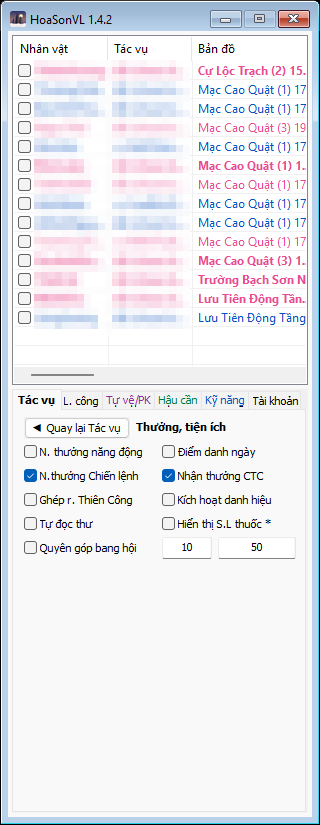
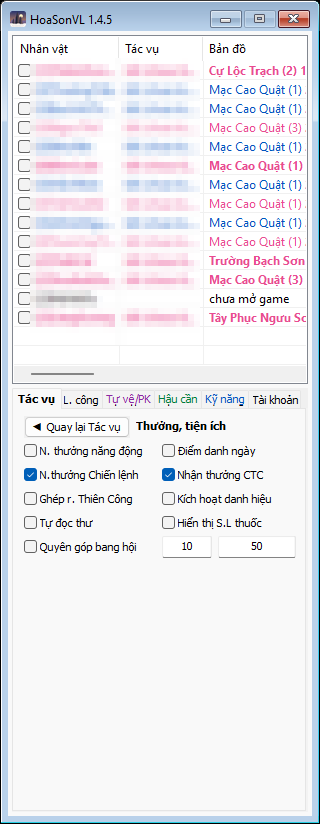
Hướng dẫn bản 1.4.5: Liên đấu đơn / song đấu + chiến đội (hộp + ảnh), Hiệp Phong (thử nghiệm, hộp + ảnh), Hiển thị S.L thuốc, Nhận thưởng CTC không có thưởng = thôi hôm nay, CTRL + Click chuyển đồ, kiểm tra cập nhật lúc mở, game cập nhật, Rèn thiếu chỗ, Tân thủ sửa trên bãi, cột [nhóm]Tên

diff --git a/docs/index.html b/docs/index.html
@@ -98,13 +98,15 @@ svg .ar-w{stroke:var(--warn);fill:none;stroke-width:1.4;stroke-dasharray:5 4}
 <div class="wrap">
 <nav>
   <h1>Hướng dẫn HoaSonVL</h1>
-  <div class="v">Bản 1.4.2 · Võ Lâm Truyền Kỳ 2.0</div>
+  <div class="v">Bản 1.4.5 · Võ Lâm Truyền Kỳ 2.0</div>
   <a href="#batdau">Bắt đầu</a>
   <a class="sub" href="#taimoi">· Tải mới và cập nhật</a>
   <a href="#danhsach">Bảng nhân vật</a>
   <div class="grp">Sáu tab</div>
   <a href="#tacvu">Tác vụ</a>
   <a class="sub" href="#hop">· Hộp riêng của từng tác vụ</a>
+  <a class="sub" href="#liendau">· Liên đấu (song đấu)</a>
+  <a class="sub" href="#hiepphong">· Hiệp Phong (thử nghiệm)</a>
   <a class="sub" href="#truongca">· Trường Ca (chiến đội)</a>
   <a class="sub" href="#todoi">· Tổ đội, theo sau</a>
   <a class="sub" href="#thuong">· Thưởng, tiện ích</a>
@@ -139,13 +141,14 @@ svg .ar-w{stroke:var(--warn);fill:none;stroke-width:1.4;stroke-dasharray:5 4}
 <li>Nếu phần mềm diệt virus giữ lại <span class="path">vlhook.dll</span> thì thêm cả thư mục HoaSonVL vào danh sách loại trừ rồi giải nén lại.</li>
 </ul>
 <h4>Cập nhật bản mới</h4>
-<p>Bot tự kiểm tra bản mới sau khi mở khoảng nửa phút, rồi vài giờ một lần. Có bản mới thì hiện hộp "HoaSonVL - cập nhật" ghi số bản và những gì thay đổi, hỏi "Cập nhật ngay?".</p>
+<p>Bot tự kiểm tra bản mới ngay khi mở, rồi vài giờ một lần. Lúc mở, cột Tác vụ ghi "chờ kiểm tra bản cập nhật HoaSonVL" và các nhân vật chờ tới khi kiểm xong (không có bản mới thì đi ngay). Có bản mới thì hiện hộp "HoaSonVL - cập nhật" ghi số bản và những gì thay đổi, hỏi "Cập nhật ngay?".</p>
 <ul>
 <li>Chọn <b>Yes</b>: bot tải về, tự đóng và mở lại. Các nhân vật đang chạy đứng yên vài giây rồi làm tiếp; game không bị đóng. Thiết lập, lộ trình, danh sách giữ nguyên.</li>
 <li>Chọn <b>No</b>: lần mở sau bot hỏi lại.</li>
 <li>Tệp cũ được giữ lại cạnh chương trình với đuôi <span class="path">.old-…</span> và tự dọn sau.</li>
 </ul>
 <p><b>Cập nhật tay</b> (khi bot không hỏi, hay máy không ra được GitHub): tải <span class="path">HoaSonPK.zip</span> mới nhất ở trang phát hành, tắt HoaSonVL, chép đè ba tệp <span class="path">HoaSonVL.exe</span>, <span class="path">vlhook.dll</span>, <span class="path">data\data.pak</span>. Không chép đè hay xoá <span class="path">config\</span> và <span class="path">userdata\</span>, thiết lập nằm ở đó. Số bản đang dùng hiện trên thanh tiêu đề cửa sổ.</p>
+<p><b>Game cập nhật</b>: bot tự dò lại bản game mới và chạy tiếp. Cột Tác vụ ghi "phiên bản game khác bản HoaSonVL biết, không điều khiển" thì xem chữ phía sau: "dò địa chỉ không được… (cần cập nhật HoaSonVL)" là chờ bản HoaSonVL mới; "đang chạy một bản game khác cùng lúc" là còn game bản cũ mở cùng game bản mới (bot chỉ lái một bản mỗi lần): thoát các game bản cũ, mở lại cho game cập nhật.</p>
 
 <h3>Thư mục chương trình</h3>
 <div class="tbl"><table>
@@ -185,8 +188,9 @@ svg .ar-w{stroke:var(--warn);fill:none;stroke-width:1.4;stroke-dasharray:5 4}
 <b>Kéo thả dòng</b><span>Đổi thứ tự nhân vật trong bảng.</span>
 <b>Bấm đúp vào dòng</b><span>Ẩn hoặc hiện lại cửa sổ game của nhân vật đó. Tiện khi chạy nhiều game mà màn hình chật.</span>
 <b>Chuột phải vào tiêu đề cột</b><span>Mở hộp "Tùy chọn hiển thị" để chọn cột nào hiện (ảnh bên dưới). Kéo tiêu đề cột để đổi chỗ, kéo mép để đổi rộng.</span>
-<b>Chuột phải vào dòng</b><span>Menu của các dòng đang chọn: <b>Thêm...</b> nhân vật chưa mở game (tên + môn phái), <b>Xóa</b> nhân vật chưa mở game (cả thiết lập, hỏi trước); lập chiến đội Trường Ca, làm đội trưởng, giải tán (mục <a href="#truongca">Trường Ca</a>); Lưu / Đọc toàn bộ cấu hình (như Xuất / Nhập thiết lập ở tab Tài khoản); xuất bảng ra tệp CSV (cả bảng hoặc các dòng đã chọn); Tùy chọn hiển thị; Reset thống kê (EXP, Thu nhập, Phù/Chết) cho các dòng đã chọn; Gán proxy / Hủy gán proxy; Đăng nhập (đã chọn, từng nhân vật, tất cả: lần lượt từng người) / Hủy đăng nhập; Thoát game đã chọn (hỏi trước); Nhật ký (mở vlbot.log). Mục chữ xám là chưa dùng được với các dòng đang chọn, hoặc chưa có trong bản này.</span>
+<b>Chuột phải vào dòng</b><span>Menu của các dòng đang chọn: <b>Thêm...</b> nhân vật chưa mở game (tên + môn phái), <b>Xóa</b> nhân vật chưa mở game (cả thiết lập, hỏi trước); lập chiến đội Trường Ca, làm đội trưởng, giải tán (mục <a href="#truongca">Trường Ca</a>); lập đội Hiệp Phong (chọn đúng 3 dòng), làm đội trưởng, giải tán (mục <a href="#hiepphong">Hiệp Phong</a>); Lưu / Đọc toàn bộ cấu hình (như Xuất / Nhập thiết lập ở tab Tài khoản); xuất bảng ra tệp CSV (cả bảng hoặc các dòng đã chọn); Tùy chọn hiển thị; Reset thống kê (EXP, Thu nhập, Phù/Chết) cho các dòng đã chọn; Gán proxy / Hủy gán proxy; Đăng nhập (đã chọn, từng nhân vật, tất cả: lần lượt từng người) / Hủy đăng nhập; Thoát game đã chọn (hỏi trước); Nhật ký (mở vlbot.log). Mục chữ xám là chưa dùng được với các dòng đang chọn, hoặc chưa có trong bản này.</span>
 <b>Bấm đúp thanh tiêu đề</b><span>Chuyển sang giao diện rộng: bảng chiếm bên trái với đủ cột, bên phải là bản đồ nhỏ của nhân vật đang chọn (chấm xanh là mình, chấm khác là người / quái quanh) và các tab. Bấm đúp lần nữa để về cửa sổ hẹp.</span>
+<b>Cột Nhân vật</b><span>"[1]Tên": số trong ngoặc là ô "Thuộc nhóm" ở tab Tài khoản.</span>
 <b>Cột Tác vụ</b><span>Việc bot đang làm, tóm tắt một dòng, ví dụ "luyện công", "mua thuốc", "theo sau X", "tắt (chưa tick)".</span>
 </div>
 <figure class="inline"><img src="img/cs-cot.png" alt="Hộp Tùy chọn hiển thị: tick các cột muốn hiện" width="346" height="363"><figcaption>Tùy chọn hiển thị. Lần đầu dùng chỉ hiện Nhân vật, Bản đồ, Cấp/EXP, EXP/giờ, Tác vụ; các cột khác bật thêm ở đây.</figcaption></figure>
@@ -239,7 +243,9 @@ svg .ar-w{stroke:var(--warn);fill:none;stroke-width:1.4;stroke-dasharray:5 4}
 <tr><td>NV Môn phái, NV Hằng ngày, NV Mặc Thạch</td><td>Nhận, làm và trả nhiệm vụ. Hằng ngày và Mặc Thạch có hộp riêng để chọn bản đồ nhận và nơi lấy trang bị cần nộp; riêng Mặc Thạch còn mua (NPC, sạp người chơi) hoặc rèn món đó.</td></tr>
 <tr><td>Năng động</td><td>Làm các hoạt động được tick trong hộp riêng cho tới khi đủ điểm năng động giới hạn.</td></tr>
 <tr><td>Đào kho báu</td><td>Dùng Tàng Bảo Đồ trong túi (thiếu thì mở Túi Thần Bí), nhờ Phó Lôi Thư ở Long Tuyền Thôn giám định (2 vạn mỗi tấm), rồi đi tới chỗ đào và đào. Chuột phải: số tấm mỗi ngày, tiền giữ lại, hẹn giờ.</td></tr>
-<tr><td>Liên đấu, Cấm Địa Phái</td><td>Đến giờ thì đi báo danh, vào trận và đánh. Chuột phải: hẹn giờ.</td></tr>
+<tr><td>Liên đấu</td><td>Ngày 1-20 hằng tháng, từ 19:00: tới Sứ Giả Liên Đấu, báo danh từng lượt, vào trận và đánh. Mỗi tháng tự hỏi là đơn đấu hay song đấu; song đấu thì tự lập / ghép chiến đội. Chuột phải: song đấu, chiến đội, hẹn giờ. Xem mục <a href="#liendau">Liên đấu</a>.</td></tr>
+<tr><td>Cấm Địa Phái</td><td>Đến giờ thì đi báo danh, vào trận và đánh. Chuột phải: hẹn giờ.</td></tr>
+<tr><td>Hiệp Phong</td><td>(Thử nghiệm) Hiệp Phong Luận Kiếm 3 đấu 3, thứ Hai và thứ Ba từ 20:15 (thứ Năm nếu tick Đi Tranh Bá), nhân vật cấp 100 trở lên: thay đồ PvP, Hậu cần, báo danh một mình hoặc cả đội 3 nhân vật trong bot, vào trận và đánh. Chuột phải: hình thức, thành tập trung, thành viên. Xem mục <a href="#hiepphong">Hiệp Phong</a>.</td></tr>
 <tr><td>Tống Kim (BD)</td><td>Mỗi trận trong ngày (13:30, 20:00, 22:15): tới quan báo danh theo bên đã chọn, vào chiến trường là tính đã đi trận đó, rồi ra làm việc khác. Bot không ở lại đánh; muốn đánh trong trận thì bật Auto PK. Chuột phải: bên báo danh, hẹn giờ.</td></tr>
 <tr><td>Hoa Đăng</td><td>Từ 19:00 tới 23:00: tới đèn Hoa Đăng Huy Hoàng (Hoa Sơn, Vũ Lăng Sơn hoặc Nhạn Đãng Sơn; mỗi nhân vật luôn một nơi, không thấy đèn thì sang nơi khác) và trả lời câu đố tới khi xong lượt hôm nay. Câu chưa biết thì chọn đáp án chưa từng sai, rồi nhớ đáp án đúng / sai cho mọi nhân vật. Có đáp án mà chưa đọc được câu hỏi: chờ 8 giây rồi chọn một đáp án. Gặp 3 hội thoại lạ: nghỉ 10 phút rồi thử lại. Chuột phải: hẹn giờ.</td></tr>
 <tr><td>Trường Ca</td><td>Cả chiến đội (tối đa 6) vào Trường Ca Sơn Trang luyện công kinh nghiệm cao. Lập chiến đội ở bảng nhân vật, chuột phải dòng để thiết lập. Xem mục <a href="#truongca">Trường Ca</a>.</td></tr>
@@ -262,7 +268,7 @@ svg .ar-w{stroke:var(--warn);fill:none;stroke-width:1.4;stroke-dasharray:5 4}
 <figure class="shot"><img src="img/hop-nangdong.png" alt="Hộp Năng động: chọn hoạt động và giới hạn điểm" width="316" height="239"><figcaption>Năng động.</figcaption></figure>
 <div>
 <h4>Năng động</h4>
-<p>Tick những hoạt động bot được dùng để kiếm điểm năng động. Ô <b>Giới hạn năng động</b> là mốc điểm; đủ mốc thì tác vụ coi như xong hôm nay. Hoạt động có dấu * là bot chưa làm được (Hiệp Phong). Giờ giấc của từng hoạt động lấy theo hẹn giờ của tác vụ cùng tên.</p>
+<p>Tick những hoạt động bot được dùng để kiếm điểm năng động. Ô <b>Giới hạn năng động</b> là mốc điểm; đủ mốc thì tác vụ coi như xong hôm nay. Giờ giấc của từng hoạt động lấy theo hẹn giờ của tác vụ cùng tên.</p>
 <p><b>Phong Lăng Độ</b> (mặc định không tick): một chuyến mỗi ngày; thuyền chạy (được +5 điểm) thì bot thoát game rồi vào lại (cần tài khoản ở tab Tài khoản, không có thì ở lại tới bờ), về Tây Sơn Thôn rồi về thành lưu rương lại. Tick thêm tác vụ Phong Lăng Độ thì đi trọn mọi chuyến; Chiến lệnh còn thiếu chuyến trọn hôm nay thì cũng ở lại tới bờ.</p>
 <p class="tip">Ví dụ: tick Môn phái, Hằng ngày, Mặc Thạch, giới hạn 25: bot làm ba nhiệm vụ cho tới khi được 25 điểm rồi chuyển sang việc khác trong danh sách.</p>
 </div></div>
@@ -336,7 +342,45 @@ svg .ar-w{stroke:var(--warn);fill:none;stroke-width:1.4;stroke-dasharray:5 4}
 <b>Tiền giữ trong túi, rút, Ngọc Lộ Hoàn</b><span>Giữ bao nhiêu tiền trong túi (thừa gửi rương), rút bao nhiêu để mua, mua bao nhiêu Ngọc Lộ Hoàn (Tiểu) khi hết và ngưỡng mua bình máu / nội lực khi thiếu tiền.</span>
 </div>
 <p class="tip">Bãi bot tự chọn theo cấp: dưới 15 bãi của thôn gần nhất; 15-19 bãi quái gần thành / thôn, chọn nơi đi tới rẻ nhất; 20-24 Hoa Sơn; 25-29 Cái Bang; 30-39 Tần Lăng; 40-49 Tây Phục Ngưu Sơn hoặc Hoàng Hà Nguyên Đầu; 50-59 Lưu Tiên Động, không tới được thì Thiên Tâm Động (hệ Hỏa: Thiên Tâm Động trước).</p>
-<p class="tip">Trong lúc chạy, bot tự bật cho nhân vật này (không ghi vào thiết lập): Tự đọc thư, N. thưởng năng động, Điểm danh ngày, N.thưởng Chiến lệnh, tác vụ Nhận thưởng Thẻ tháng, sửa trang bị khi về thành, nhặt tiền; về thành bằng Thổ địa phù khi máu dưới 30% (mốc của bạn trong khoảng 30-40% thì giữ nguyên).</p>
+<p class="tip">Trong lúc chạy, bot tự bật cho nhân vật này (không ghi vào thiết lập): Tự đọc thư, N. thưởng năng động, Điểm danh ngày, N.thưởng Chiến lệnh, tác vụ Nhận thưởng Thẻ tháng, sửa trang bị khi về thành, sửa trên bãi (mức % ở Hậu cần; thiếu tiền thì về thành sửa) và về thành khi độ bền thấp, nhặt tiền; về thành bằng Thổ địa phù khi máu dưới 30% (mốc của bạn trong khoảng 30-40% thì giữ nguyên).</p>
+</div></div>
+
+<h3 id="liendau">Liên đấu: đơn đấu, song đấu, chiến đội</h3>
+<p class="lead">Võ Lâm Liên Đấu mở ngày 1-20 hằng tháng, 19:00-21:00, báo danh mỗi 15 phút. Mỗi tháng là đơn đấu hoặc song đấu: bot tự hỏi rồi làm theo. Đánh song đấu có từ bản 1.4.3; tự hỏi hình thức và tự lập / ghép chiến đội có từ bản 1.4.5.</p>
+<div class="sec">
+<figure class="shot"><img src="img/hop-liendau.png" alt="Hộp Liên đấu: song đấu, chiến đội, hẹn giờ" width="316" height="257"><figcaption>Chuột phải dòng Liên đấu.</figcaption></figure>
+<div>
+<p><b>Đơn hay song đấu</b>: mỗi tháng một lần, trước khi báo danh, bot hỏi Sứ Giả Liên Đấu thứ hai trong thành (Đại Lý / Dương Châu đều có hai ông cùng tên; ông này không nhận báo danh) và nhớ cho cả tháng. Tháng đơn đấu: không làm gì thêm, game tự xếp. Không gặp ông thì vẫn đi báo danh như thường, 10 phút sau hỏi lại.</p>
+<div class="ctl">
+<b>Song đấu</b><span>Trận 2 đấu 2 khi đồng đội cũng là nhân vật trong bot. <b>Dồn một mục tiêu</b>: cả hai đánh một đối thủ, hạ xong mới sang người kia. <b>Chia cặp</b>: mỗi người một đối thủ; một đối thủ ngã thì cả hai dồn vào người còn lại. Nhân vật có tên xếp trước dẫn. Lúc đếm ngược nhân vật kia đứng ra cách đồng đội 400 px; nhân vật đánh xa đứng sát vách sân; bị đánh mà không ra đòn được 3 giây thì Khinh công ra rồi đánh tiếp. Đồng đội không có trong bot hoặc đã ngã: đánh như đấu đơn.</span>
+<b>Chiến đội</b><span>Chỉ có tác dụng khi tháng này là song đấu. <b>Cá nhân</b>: chưa có chiến đội thì tự lập một mình, tên là tên nhân vật. <b>Tổ đội</b> + nhân vật bên phải: lập chung với nhân vật đó (cũng phải là nhân vật trong bot). Bấm OK thì bên kia cũng được đặt Tổ đội với nhân vật này; ai ghép trước đó với một trong hai bị gỡ.</span>
+</div>
+</div></div>
+<div class="sec wide"><div>
+<h4>Tổ đội: bot ghép chiến đội thế nào</h4>
+<ol>
+<li>Ai đã có chiến đội làm đội trưởng; chưa ai có thì nhân vật có tên xếp trước.</li>
+<li>Đội trưởng tới Sứ Giả Liên Đấu nhận báo danh, chọn "Chiến Đội Võ Lâm Liên Đấu Ta", tạo chiến đội tên "A-B" ghép từ hai tên (cắt cho vừa ô 16 chữ của game; trùng tên thì thêm số).</li>
+<li>Hai nhân vật tổ đội trong game cạnh Sứ Giả (chỉ hai người), đội trưởng chọn "Để đội hữu của ta gia nhập chiến đội ta" rồi xác nhận. Đồng đội không phải bấm gì.</li>
+<li>Làm một lần là đủ cho cả mùa. Vào trận không cần tổ đội: cùng chiến đội báo danh cùng lượt là chung một đội.</li>
+</ol>
+<div class="box warn"><b>Đồng đội đã ở chiến đội khác</b> (của người khác, hoặc đã đủ người): bot báo trong khung chat game, và hiện hộp cảnh báo khi bạn bấm OK ở hộp này; không ghép, mỗi người đánh với chiến đội của mình. Bot không bao giờ chọn "Rời khỏi đội": muốn đổi chiến đội thì tự rời ở Sứ Giả Liên Đấu.</div>
+<p class="tip">Chưa có chiến đội để báo danh (đồng đội chưa vào game, tên bị từ chối…): bot làm việc khác 10 phút rồi thử lại, không bỏ cả buổi.</p>
+</div></div>
+
+<h3 id="hiepphong">Hiệp Phong (thử nghiệm)</h3>
+<p class="lead">Hiệp Phong Luận Kiếm 3 đấu 3, thứ Hai và thứ Ba từ 20:15 (thứ Năm: Tranh Bá, khi tick), nhân vật cấp 100 trở lên, không chạy khi bật Auto PK. Có từ bản 1.4.3, chưa được thử đủ trận thật.</p>
+<div class="sec">
+<figure class="shot"><img src="img/hop-hiepphong.png" alt="Hộp Hiệp Phong: hình thức, thành tập trung, thành viên, trong trận" width="416" height="473"><figcaption>Chuột phải dòng Hiệp Phong.</figcaption></figure>
+<div>
+<div class="ctl">
+<b>Hình thức</b><span><b>Cá nhân</b>: đúng giờ thay đồ PvP, Hậu cần, báo danh một mình, game tự ghép đội. <b>Tổ đội</b>: 3 nhân vật trong bot tự tập trung ở thành dưới đây, tự lập đội, đội trưởng báo danh cho cả đội; 20:23 chưa đủ 3 người thì mỗi người báo danh cá nhân.</span>
+<b>Thành tập trung</b><span>Lâm An: cạnh Quản Sự Luận Kiếm; thành khác: cạnh Lễ Quan. Báo danh ở thành nào cũng được; Lâm An rộng, tụ tập lâu.</span>
+<b>Thành viên</b><span>Đúng 3 nhân vật trong bot, dòng đầu là đội trưởng (báo danh cho cả đội). Chọn tên rồi bấm "Thêm vào" hoặc "Làm đội trưởng". Cách khác: chọn đúng 3 dòng ở bảng nhân vật, chuột phải, "Lập đội Hiệp Phong...".</span>
+<b>Trong trận</b><span>Đội trưởng chọn đối thủ: bị hệ của nó khắc trước, rồi ít máu nhất. <b>Tự động</b>: cả đội đánh mục tiêu của đội trưởng; ai bị đối thủ khác áp sát (dưới 200 px) mà mục tiêu chung còn xa thì đánh trả kẻ đó. <b>Dồn một mục tiêu</b>: luôn mục tiêu của đội trưởng. <b>Chia mục tiêu</b>: mỗi người một đối thủ chưa ai đánh. Chưa có đối thủ thì đứng quanh đội trưởng.</span>
+<b>Đi Tranh Bá thứ Năm</b><span>Khi đội đủ top 96.</span>
+</div>
+<p class="tip">Đồ PvP, thuốc, túi thuốc, kỹ năng: các dòng "Hiệp Phong" ở Hậu cần, Mở túi thuốc, Kỹ năng và bộ PvP của Thay đổi trang bị (không có dòng Hiệp Phong thì dùng kỹ năng Auto PK).</p>
 </div></div>
 
 <h3 id="truongca">Trường Ca (chiến đội)</h3>
@@ -537,18 +581,18 @@ svg .ar-w{stroke:var(--warn);fill:none;stroke-width:1.4;stroke-dasharray:5 4}
 
 <h3 id="thuong">Trang con: Thưởng, tiện ích</h3>
 <div class="sec">
-<figure class="shot"><img src="img/sub-thuong.png" alt="Trang Thưởng, tiện ích" width="320" height="825"><figcaption>Tác vụ › Thưởng, tiện ích.</figcaption></figure>
+<figure class="shot"><img src="img/sub-thuong.png" alt="Trang Thưởng, tiện ích" width="320" height="824"><figcaption>Tác vụ › Thưởng, tiện ích.</figcaption></figure>
 <div>
 <p>Các việc nhỏ bot làm xen kẽ, không cần xếp thứ tự.</p>
 <div class="ctl">
 <b>N. thưởng năng động</b><span>Nhận thưởng ở các mốc 10 / 25 / 55 / 80 điểm năng động.</span>
 <b>Điểm danh ngày</b><span>Điểm danh mỗi ngày và nhận kinh nghiệm ngoại tuyến.</span>
 <b>N.thưởng Chiến lệnh</b><span>Nhận các mốc cấp chiến đã đạt (hàng miễn phí) và nhiệm vụ ngày / tuần đã xong. Cùng một ô với "Nhận thưởng Chiến lệnh" trong hộp của tác vụ Chiến lệnh. Ngoài mùa Chiến Lệnh thì bỏ qua.</span>
-<b>Nhận thưởng CTC</b><span>Sau Công Thành Chiến, nhân vật đã vào trận hôm nay thì tới Sứ Giả Thành Chiến đúng phe nhận Túi Càn Khôn. Game nói chưa có thưởng thì 10 phút sau thử lại, tối đa 4 lần. Chạy cả khi bật Auto PK.</span>
+<b>Nhận thưởng CTC</b><span>Sau Công Thành Chiến, nhân vật đã vào trận hôm nay thì tới Sứ Giả Thành Chiến đúng phe nhận Túi Càn Khôn. Game nói trận chưa xong thì 10 phút sau thử lại, tối đa 4 lần; nói không có phần thưởng (thua, đã nhận rồi) thì thôi hôm nay. Chạy cả khi bật Auto PK.</span>
 <b>Ghép r. Thiên Công</b><span>Đủ 5 Thiên Công Lệnh thì khi gặp Lễ Quan (lúc nhận thẻ tháng hoặc về thành) ghép thành rương. Không tự đi riêng tới Lễ Quan.</span>
 <b>Kích hoạt danh hiệu</b><span>Game hay tự bỏ danh hiệu khi đổi bản đồ. Bật ô này rồi chọn danh hiệu một lần trong game; bot nhớ và kích hoạt lại mỗi khi vào game hay sang bản đồ mới.</span>
 <b>Tự đọc thư</b><span>Có thư mới, hoặc thư đã đọc mà chưa nhận đồ đính kèm, và đang ở khu an toàn: mở hộp thư từ xa, đọc, nhận đồ đính kèm; nhận từ xa không được thì tới Tín Sứ ở thành gần nhất. Không chen ngang việc đang làm.</span>
-<b>Hiển thị S.L thuốc</b><span>Hiện số lượng thuốc (chưa làm trong bản này).</span>
+<b>Hiển thị S.L thuốc</b><span>Viết số bình máu / bình mana / túi thuốc (x/y/z; túi thuốc chỉ tính trong túi đạo cụ, Xích Hà Đơn tính cả máu lẫn mana) của các nhân vật trong bot cạnh khung tổ đội của game: có tổ đội thì sau tên từng thành viên; không tổ đội thì tên + số các nhân vật đang theo sau nhân vật này. Chỉ hiện trên máy mình, cập nhật mỗi 5 giây.</span>
 <b>Quyên góp bang hội</b><span>Ở khu an toàn, túi có từ số ô thứ hai (vạn lượng) trở lên thì góp vào quỹ bang phần vượt số ô thứ nhất. Chạy trước "Gửi tiền" của Hậu cần. Ba lần không góp được thì thôi hôm nay.</span>
 </div>
 </div></div>
@@ -607,7 +651,7 @@ svg .ar-w{stroke:var(--warn);fill:none;stroke-width:1.4;stroke-dasharray:5 4}
 <b>Tự cừu sát</b><span>Đang luyện công ở khu chiến đấu (không tính bản đồ sự kiện), thấy người có tên trong danh sách "…" thì cừu sát người đó (người gần nhất trước) rồi đánh như kẻ địch. Game không nhận thì 2 giây sau thử lại.</span>
 <b>Bảo vệ cừu sát</b><span>Nhân vật trong danh sách (nhân vật khác của bot) đang bị ai đó cừu sát thì mình cừu sát người đó luôn, để cả nhóm cùng đánh. Các nhân vật ghi tên nhau thì bảo vệ qua lại.</span>
 <b>TĐP khi cừu sát + số</b><span>Bị người khác cừu sát mà điểm PK của mình từ số này trở lên thì phù về thành. 0 là luôn về.</span>
-<b>Báo cừu sát</b><span>Vào thế cừu sát thì bot ghi một dòng "Cừu sát với <tên>" ở kênh chat Khác để bạn thấy.</span>
+<b>Báo cừu sát</b><span>Vào thế cừu sát thì bot ghi một dòng "Cừu sát với &lt;tên&gt;" ở kênh chat Khác để bạn thấy.</span>
 <b>Tự đồ sát</b><span>Ở khu chiến đấu, gặp người trong danh sách, khác màu, thì chuyển chế độ PK sang Đồ sát và đánh người đó trước. Trong tổ đội, các nhân vật khác của bot cũng có tên người đó thì chờ nhau tới (tối đa 10 giây) rồi mới chuyển cùng lúc.</span>
 <b>Tự chuyển về LC</b><span>Không còn ai trong danh sách đồ sát quanh mình thì chuyển chế độ PK về luyện công, từng bậc như game cho phép (ở khu chiến đấu game bắt chờ 3 phút).</span>
 </div>
@@ -704,7 +748,7 @@ svg .ar-w{stroke:var(--warn);fill:none;stroke-width:1.4;stroke-dasharray:5 4}
 <b>Chia sẻ v. phẩm</b><span>Nhân vật đi làm nhiệm vụ phải ra bản đồ xa mà thiếu Thần Hành Phù / Tiêu Dao Phù / Hồi Thành Phù (tick loại nào trong nút "…") thì xin từ nhân vật đang luyện công có món đó. Hai bên về thành, giao, rồi quay lại việc cũ.</span>
 <b>Chia sẻ v. phẩm NV</b><span>Nhiệm vụ Mặc Thạch / Hằng ngày đòi trang bị mà nhân vật này chưa có thì xin nhân vật khác đã nhặt được nhờ luật lọc "Trang bị nhiệm vụ".</span>
 <b>Gom vật phẩm / Giao vật phẩm</b><span>Bật ở bên nhận và bên cho, danh sách ở nút "…" (xem mục trên). Dùng để gom Mảnh Trang Bị, huyền tinh, tiền về một nhân vật.</span>
-<b>Rèn + Rèn 11 / 12 + loại</b><span>Mỗi khi về thành: rèn trang bị loại đã chọn bằng Mảnh Trang Bị, lần này tới lần khác tới khi hết mảnh (tối đa 3600 lượng một lần, thiếu rút rương). Rèn 12 cần Cấp Rèn 10.</span>
+<b>Rèn + Rèn 11 / 12 + loại</b><span>Mỗi khi về thành: rèn trang bị loại đã chọn bằng Mảnh Trang Bị, lần này tới lần khác tới khi hết mảnh (tối đa 3600 lượng một lần, thiếu rút rương). Rèn 12 cần Cấp Rèn 10. Túi thiếu chỗ cho món rèn ra thì tự xếp túi; vẫn thiếu thì 10 phút sau thử lại.</span>
 <b>Rèn t. bị khóa</b><span>Dùng cả mảnh khóa (dùng trước, hết mới tới mảnh thường).</span>
 </div>
 </div></div>
@@ -865,6 +909,7 @@ svg .ar-w{stroke:var(--warn);fill:none;stroke-width:1.4;stroke-dasharray:5 4}
 <tr><td><kbd>Ctrl</kbd>+<kbd>X</kbd></td><td>Mở túi thuốc máu ngay, ở mọi bản đồ.</td></tr>
 <tr><td><kbd>Ctrl</kbd>+<kbd>R</kbd></td><td>Lưu rương gần nhất (khu phi chiến đấu). Trưởng nhóm: cả nhóm về cùng thành rồi lưu.</td></tr>
 <tr><td><kbd>Ctrl</kbd>+<kbd>Z</kbd></td><td>Mở rương từ xa.</td></tr>
+<tr><td><kbd>Ctrl</kbd>+Click món</td><td>Khi rương hoặc túi hành trang đang mở: chuyển món đó và mọi món cùng loại (cùng cấp; trang bị thì cùng phẩm chất) sang nơi cao nhất đang mở khác chỗ của nó: rương, rồi túi hành trang, rồi túi đạo cụ. Lúc khác vẫn chèn link vào chat như game.</td></tr>
 <tr><td><kbd>Ctrl</kbd>+<kbd>Space</kbd></td><td>Tạm dừng / chạy tiếp bot. Lúc tạm dừng nhân vật vẫn được tick, bot chỉ bơm máu, mana. Trên trưởng nhóm: chỉ nhân vật đó, không lan cả nhóm.</td></tr>
 </table></div>
 
